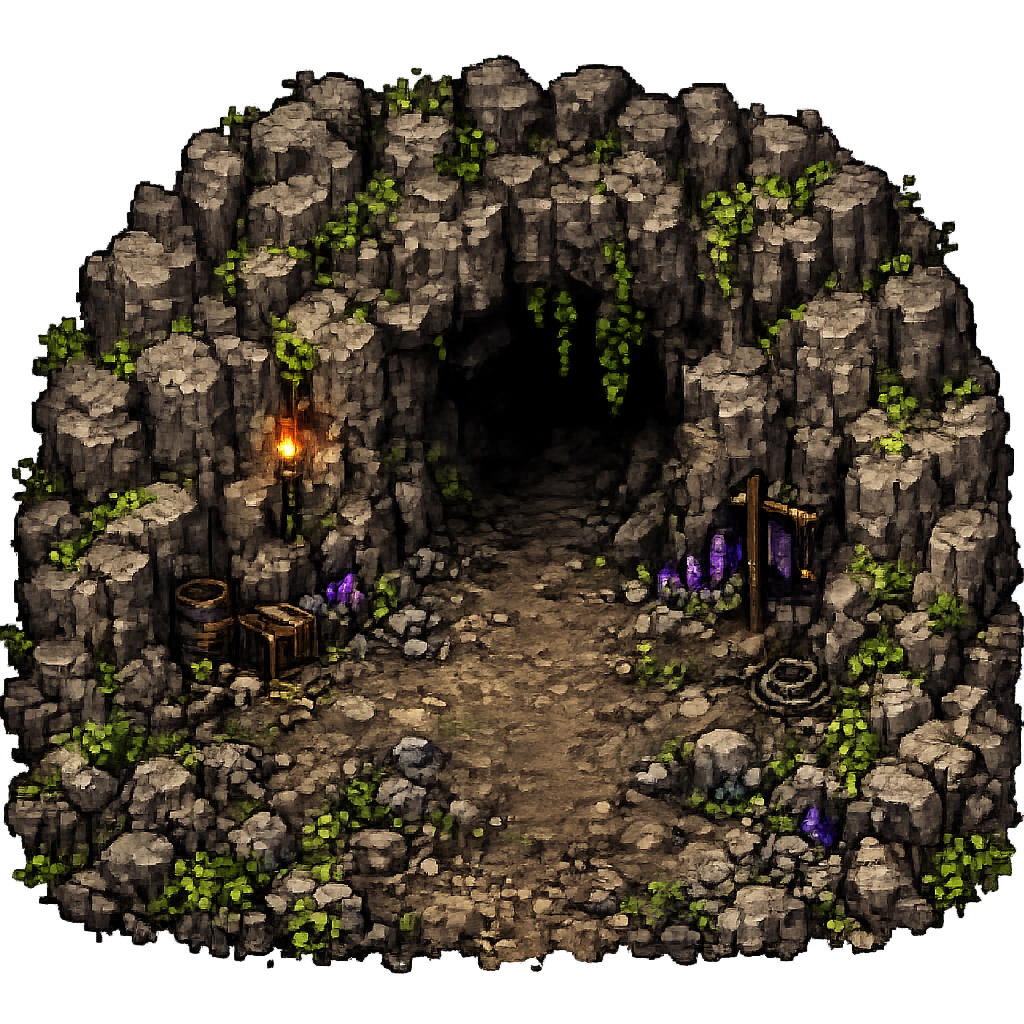
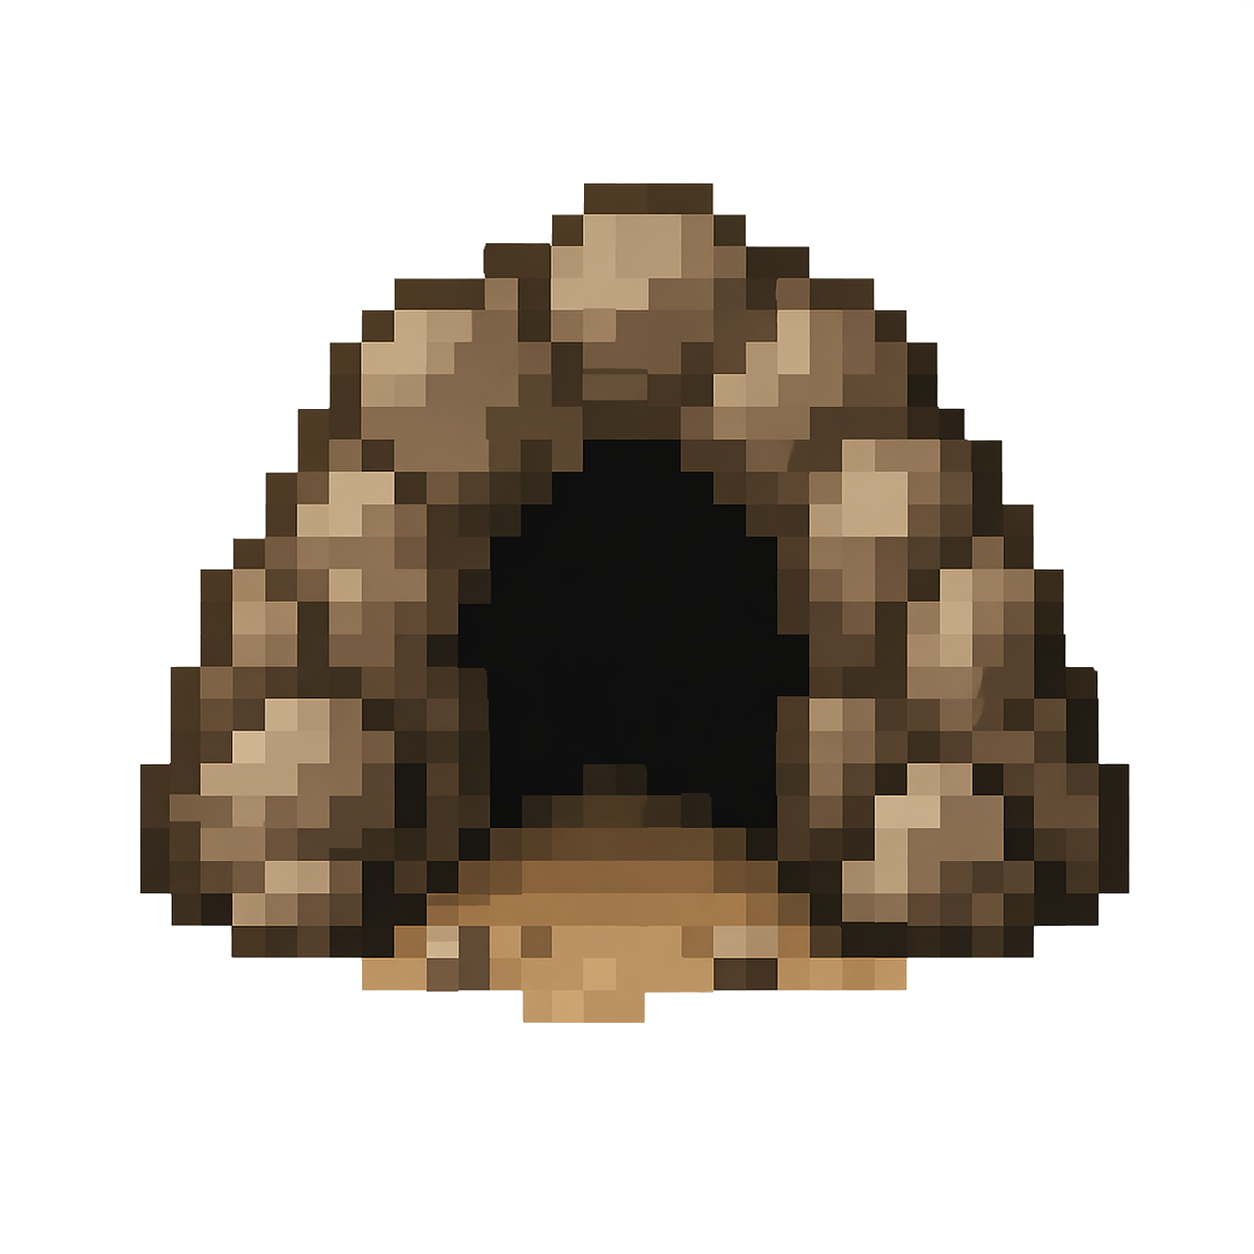
feat: New POI artwork (style refresh) + Ruins/Dungeon/Camp wiring
User dropped updated illustrations under /assets/custom_assets/ that
match the game's art style better than the previous batch. Moved them
into crates/gameclient/assets/poi/ (overwriting the old town/village/
cabin/cave_entrance/witch_hut), and added 3 new POI types now that
art exists for them: Ruins, Dungeon, Camp.

Renamed cave_entrence.png → cave_entrance.png to match the existing
asset path the code already references.

All 8 PNGs were RGB with near-white baked backgrounds; flood-keyed
from the four corners (tolerance 20) to get clean alpha. Same trick
as the previous batch.

POI types still without custom art: Tower, Port. They keep falling
back to the tile-atlas Overlay::Village marker — drop a PNG and add
a poi_sprite_path branch when art arrives.

hut.png deliberately NOT moved in — there's no PoiType::Hut, and
without a clear mapping it'd just sit in the assets dir unused.
Will wire it once the user picks which POI type it should represent.

diff --git a/crates/gameclient/index.html b/crates/gameclient/index.html
@@ -26,7 +26,7 @@
 <body>
   <canvas id="game-canvas"></canvas>
   <script type="module">
-    import init from './web/gameclient.js?v=206';
+    import init from './web/gameclient.js?v=207';
     init();
   </script>
 </body>

diff --git a/crates/gameclient/src/terrain/tilemap.rs b/crates/gameclient/src/terrain/tilemap.rs
@@ -180,10 +180,14 @@ fn poi_sprite_path(ty: questlib::mapgen::PoiType) -> Option<(&'static str, u32)>
         Village => Some(("poi/village.png", 1)),
         Cave    => Some(("poi/cave_entrance.png", 1)),
         Cabin   => Some(("poi/cabin.png", 1)),
-        // witch_hut is a placeholder — assigned to Shrine for now since
-        // Shrine has no custom art yet. Reassign when more PNGs arrive.
         Shrine  => Some(("poi/witch_hut.png", 1)),
-        // Dungeon example for a future castle.png (3×3 tile landmark):
+        Ruins   => Some(("poi/ruins.png", 1)),
+        Dungeon => Some(("poi/dungeon.png", 1)),
+        Camp    => Some(("poi/camp.png", 1)),
+        // Tower and Port still have no custom art; they fall back to the
+        // tile-atlas overlay (Overlay::Village). Drop a PNG into
+        // assets/poi/ + add a branch here when art arrives.
+        // Example for a future castle.png at 3×3 tiles:
         //   Dungeon => Some(("poi/castle.png", 3)),
         _       => None,
     }

diff --git a/crates/gameclient/src/terrain/world.rs b/crates/gameclient/src/terrain/world.rs
@@ -103,7 +103,7 @@ impl WorldGrid {
                 use questlib::mapgen::PoiType::*;
                 let has_custom_sprite = matches!(
                     poi.poi_type,
-                    Town | Village | Cave | Cabin | Shrine
+                    Town | Village | Cave | Cabin | Shrine | Ruins | Dungeon | Camp
                 );
                 let poi_overlay = match poi.poi_type {
                     Cave => Overlay::CaveEntrance,

diff --git a/crates/gameclient/src/version.rs b/crates/gameclient/src/version.rs
@@ -15,7 +15,7 @@ use crate::GameFont;
 
 /// Must match the `?v=NNN` number in crates/gameclient/index.html.
 /// Bumped together by hand on every WASM rebuild.
-pub const CLIENT_VERSION: u32 = 206;
+pub const CLIENT_VERSION: u32 = 207;
 
 /// How often to poll the server for version. 60s is frequent enough that
 /// players notice a deploy within a minute without hammering the server.
